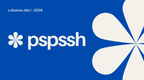
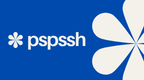
Refresh the artwork again (#44)
The icon drops the small signature, which at the size the XMB draws it
was never going to be legible. The background keeps one and moves it to
the top left.

Claude-Session: https://claude.ai/code/session_01DACMfSAaRCDyKeHxx6kBus

Changed region(s): [[0.0556, 0.1, 0.3056, 0.15]]

diff --git a/src/core/pspssh.h b/src/core/pspssh.h
@@ -29,7 +29,7 @@ extern "C" {
  * An application that cannot tell you which build it is makes "did I copy the
  * new one across?" unanswerable without a computer — which is exactly the
  * question that comes up while iterating on a device you flash by hand. */
-#define PSPSSH_VERSION "1.2.3"
+#define PSPSSH_VERSION "1.2.4"
 
 /* Whose it is. Shown on the first screen, because a thing somebody made by
  * hand should say so. */
